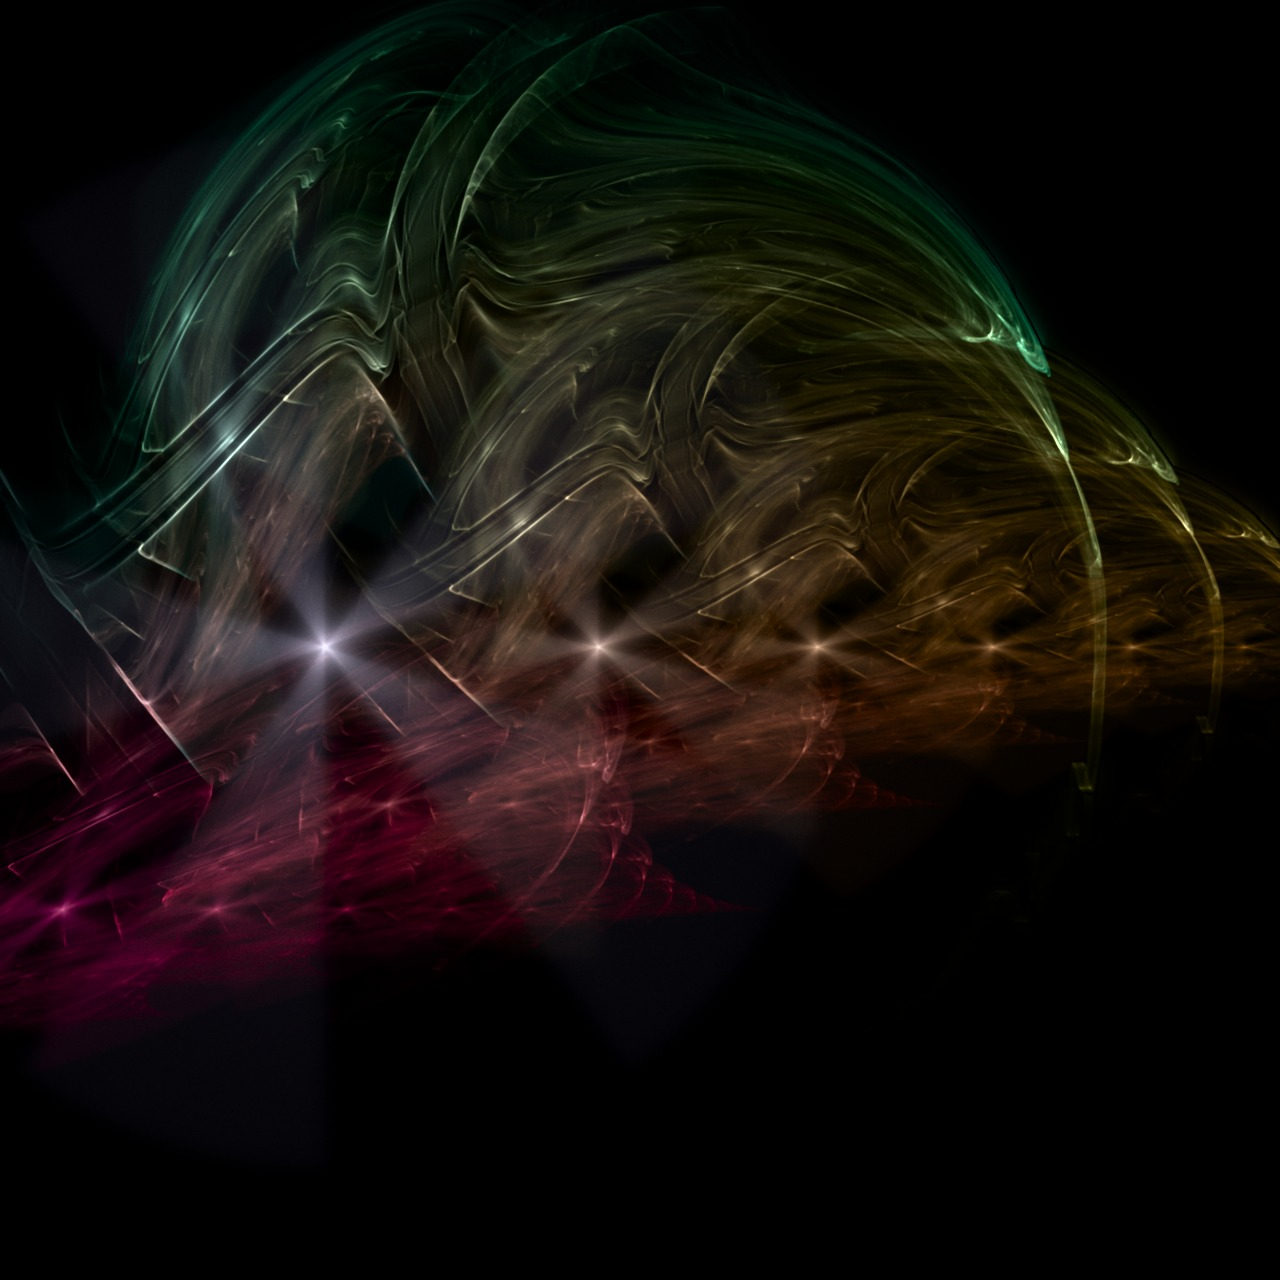
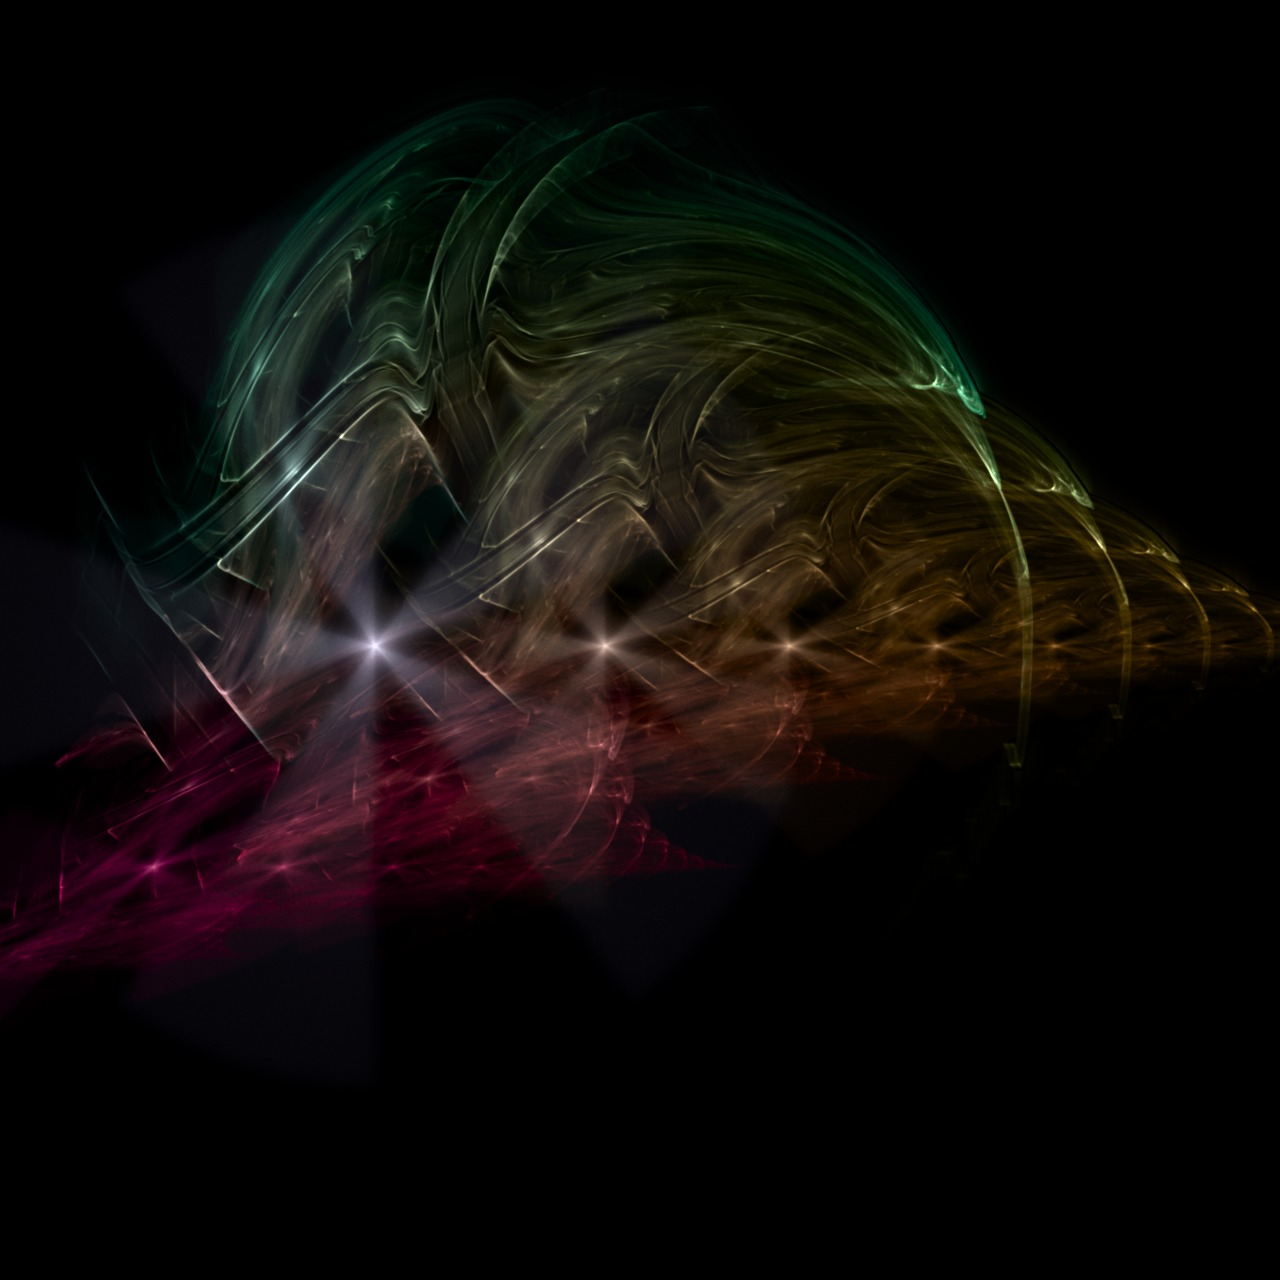
feat(landing): zoom First Light (example1) out so its top isn't clipped
Lower the landing camera override zoom 0.8548 -> 0.72 and re-render the
static poster to match.

Changed region(s): [[0.0, 0.0, 1.0, 0.8125]]

diff --git a/packages/landing/src/lib/flame.ts b/packages/landing/src/lib/flame.ts
@@ -202,14 +202,14 @@ export function applyFlameRecipe(
 }
 
 /**
- * Landing render of First Light (example1) — shifted left + zoomed slightly out
- * so the flame fills the wide gallery plate instead of leaving empty space on the
- * left. Camera-only override; the shared app example is untouched.
+ * Landing render of First Light (example1) — shifted left + zoomed out so the
+ * flame fills the wide gallery plate (no empty space on the left) and its top
+ * isn't clipped. Camera-only override; the shared app example is untouched.
  */
 export const EXAMPLE1_LANDING: FlameDescriptor = overrideFlame(example1, {
   renderSettings: {
     camera: {
-      zoom: 0.8548384768000001,
+      zoom: 0.72,
       position: [0.575874924659729, 0.013209767639636993],
       rotation: 0,
     },
